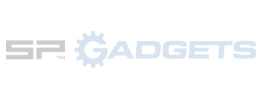
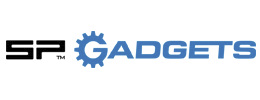
Prepares the layout of the partners

Changed region(s): [[0.0, 0.3, 0.9846, 0.69]]

diff --git a/source/index.html b/source/index.html
@@ -366,7 +366,61 @@
 			</ul>
 		</div>
 	</section>
-	se
+	<section class="partners">
+		<div class="container">
+			<h2 class="visually-hidden">Наши партнеры</h2>
+			<ul class="partners__list">
+				<li class="partners__item">
+					<a href="#" class="partners__item-link">
+						<h3 class="visually-hidden">Название компании</h3>
+						<picture class="partners__picture">
+							<source srcset="img/partner-1@1x.webp 1x, img/partner-1@1.5x.webp 1.5x, img/partner-1@2x.webp 2x">
+							<source srcset="img/partner-1@1x.png 1x, img/partner-1@1.5x.png 1.5x, img/partner-1@2x.png 2x">
+							<img class="partners__img" src="img/partner-1@1x.png" srcset="img/partner-1@2x.png 2x"
+								 alt="Название компании"
+								 width="260" height="100">
+						</picture>
+					</a>
+				</li>
+				<li class="partners__item">
+					<a href="#" class="partners__item-link">
+						<h3 class="visually-hidden">Название компании</h3>
+						<picture class="partners__picture">
+							<source srcset="img/partner-2@1x.webp 1x, img/partner-2@1.5x.webp 1.5x, img/partner-2@2x.webp 2x">
+							<source srcset="img/partner-2@1x.png 1x, img/partner-2@1.5x.png 1.5x, img/partner-2@2x.png 2x">
+							<img class="partners__img" src="img/partner-2@1x.png" srcset="img/partner-2@2x.png 2x"
+								 alt="Название компании"
+								 width="260" height="100">
+						</picture>
+					</a>
+				</li>
+				<li class="partners__item">
+					<a href="#" class="partners__item-link">
+						<h3 class="visually-hidden">Название компании</h3>
+						<picture class="partners__picture">
+							<source srcset="img/partner-3@1x.webp 1x, img/partner-3@1.5x.webp 1.5x, img/partner-3@2x.webp 2x">
+							<source srcset="img/partner-3@1x.png 1x, img/partner-3@1.5x.png 1.5x, img/partner-3@2x.png 2x">
+							<img class="partners__img" src="img/partner-3@1x.png" srcset="img/partner-3@2x.png 2x"
+								 alt="Название компании"
+								 width="260" height="100">
+						</picture>
+					</a>
+				</li>
+				<li class="partners__item">
+					<a href="#" class="partners__item-link">
+						<h3 class="visually-hidden">Название компании</h3>
+						<picture class="partners__picture">
+							<source srcset="img/partner-4@1x.webp 1x, img/partner-4@1.5x.webp 1.5x, img/partner-4@2x.webp 2x">
+							<source srcset="img/partner-4@1x.png 1x, img/partner-4@1.5x.png 1.5x, img/partner-4@2x.png 2x">
+							<img class="partners__img" src="img/partner-4@1x.png" srcset="img/partner-4@2x.png 2x"
+								 alt="Название компании"
+								 width="260" height="100">
+						</picture>
+					</a>
+				</li>
+			</ul>
+		</div>
+	</section>
 </main>
 <footer>
 

diff --git a/source/sass/main/partners/partners.scss b/source/sass/main/partners/partners.scss
@@ -1,0 +1,28 @@
+.partners {
+  padding-top: 10px;
+  margin-bottom: 80px;
+}
+
+.partners__list {
+  display: flex;
+  flex-wrap: wrap;
+  justify-content: space-between;
+  margin: 0;
+  padding: 0;
+  list-style: none;
+}
+
+.partners__item {
+  margin-bottom: 20px;
+}
+
+.partners__item-link {
+  display: block;
+  max-height: 100px;
+  background-color: #e5e5e5;
+  border-bottom: 4px solid #e5e5e5;
+}
+
+.partners__img {
+  opacity: 40%;
+}
